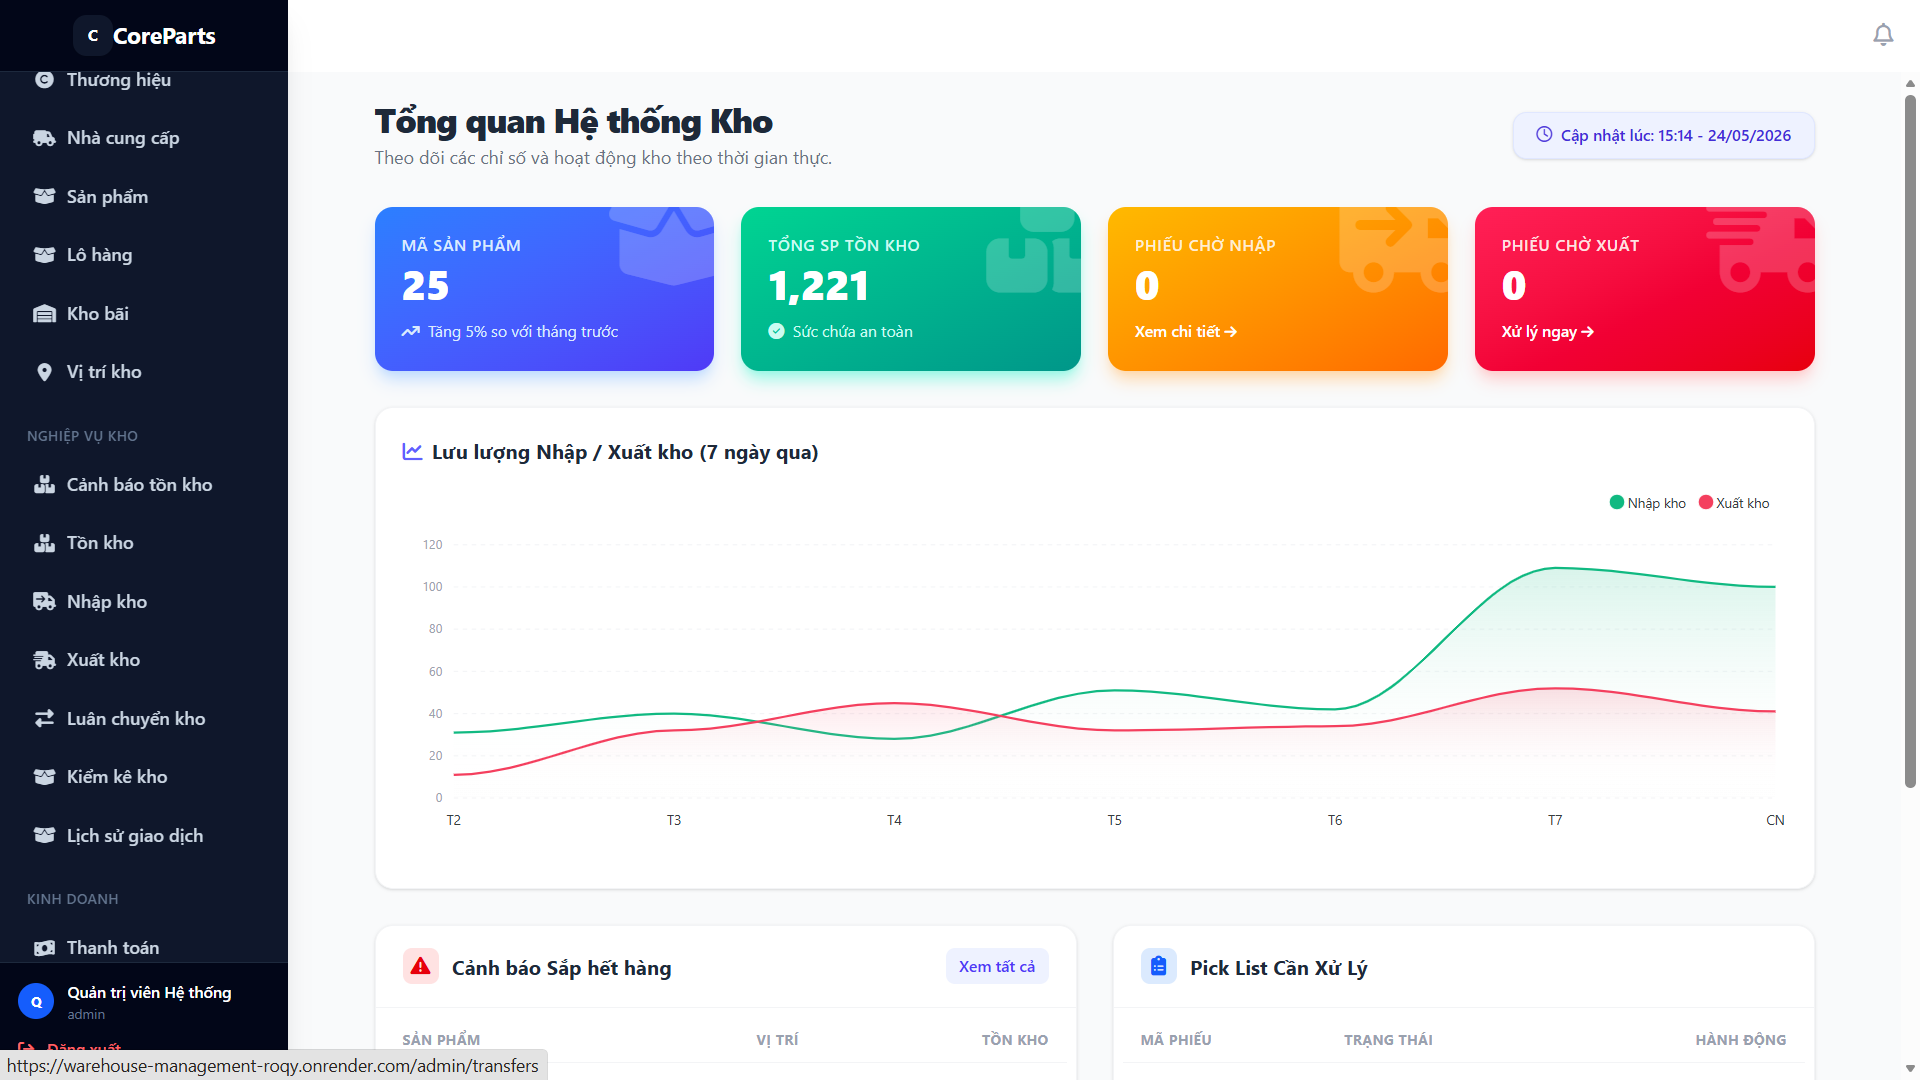
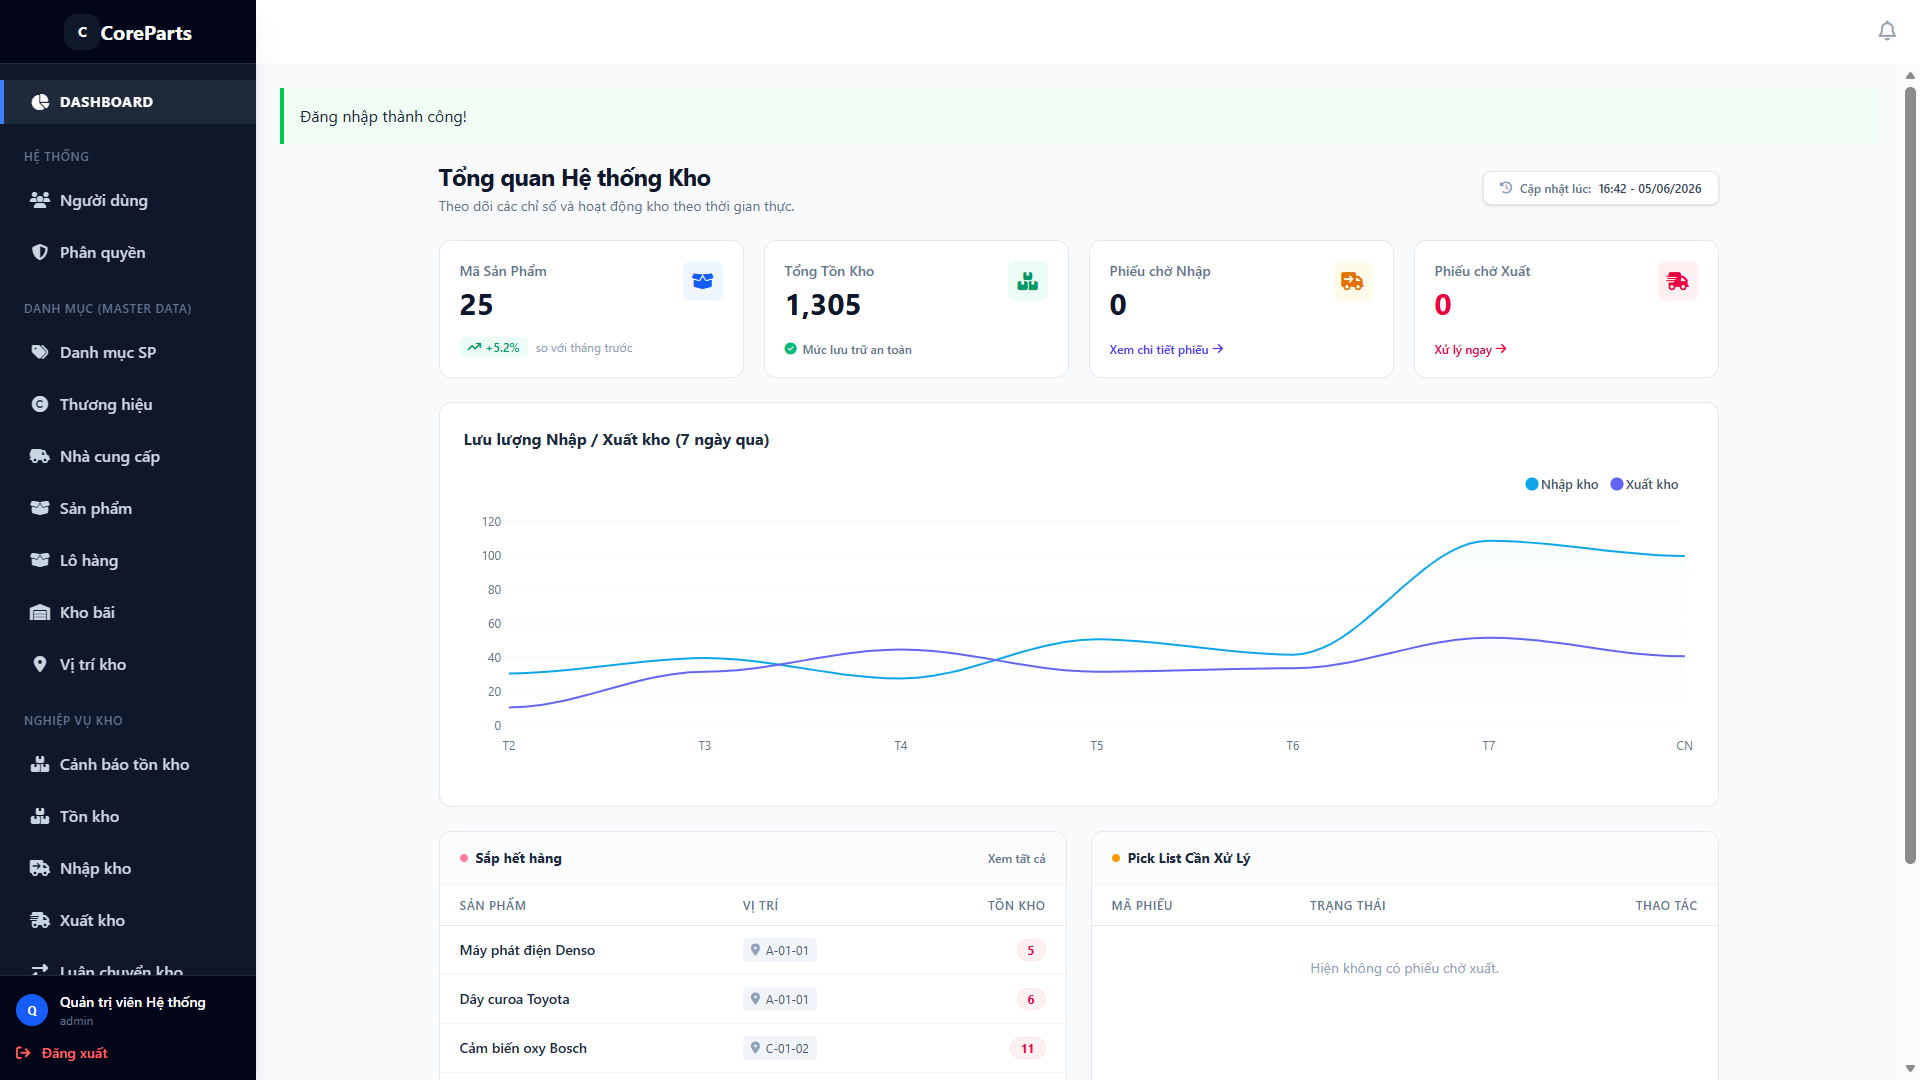
feat: Update project demo links, enhance project descriptions, and improve slider animations

diff --git a/js/projects.js b/js/projects.js
@@ -294,34 +294,44 @@ class ProjectManager {
     if (!cards.length) return;
 
     const isMobile = window.innerWidth < 768;
-    const xOffset = isMobile ? 100 : 70;
-    const scaleFactor = isMobile ? 0.9 : 0.8;
+
+    const xOffset = isMobile ? 85 : 65;
+    const scaleFactor = isMobile ? 0.85 : 0.8;
+    const rotateAngle = isMobile ? 25 : 35;
 
     cards.forEach((card, index) => {
       const diff = index - this.currentIndex;
       card.classList.remove("active");
 
+      card.style.transition = "all 0.6s cubic-bezier(0.25, 1, 0.5, 1)";
+      card.style.transformStyle = "preserve-3d";
+
       if (diff === 0) {
         card.classList.add("active");
-        card.style.transform = `translateX(-50%) scale(1)`;
+        card.style.transform = `translateX(-50%) perspective(1200px) translateZ(100px) rotateY(0deg) scale(1)`;
         card.style.zIndex = 30;
         card.style.opacity = 1;
-        card.style.filter = "blur(0px)";
+        card.style.filter = "blur(0px) brightness(1)";
+        card.style.boxShadow = "0 25px 50px -12px rgba(0,0,0,0.3)";
       } else if (diff === -1) {
-        card.style.transform = `translateX(calc(-50% - ${xOffset}%)) scale(${scaleFactor})`;
+        card.style.transform = `translateX(calc(-50% - ${xOffset}%)) perspective(1200px) translateZ(-50px) rotateY(${rotateAngle}deg) scale(${scaleFactor})`;
         card.style.zIndex = 20;
-        card.style.opacity = 0.5;
-        card.style.filter = "blur(3px)";
+        card.style.opacity = 0.6;
+        card.style.filter = "blur(2px) brightness(0.6)";
+        card.style.boxShadow = "-15px 10px 30px -10px rgba(0,0,0,0.2)";
       } else if (diff === 1) {
-        card.style.transform = `translateX(calc(-50% + ${xOffset}%)) scale(${scaleFactor})`;
+        card.style.transform = `translateX(calc(-50% + ${xOffset}%)) perspective(1200px) translateZ(-50px) rotateY(${-rotateAngle}deg) scale(${scaleFactor})`;
         card.style.zIndex = 20;
-        card.style.opacity = 0.5;
-        card.style.filter = "blur(3px)";
+        card.style.opacity = 0.6;
+        card.style.filter = "blur(2px) brightness(0.6)";
+        card.style.boxShadow = "15px 10px 30px -10px rgba(0,0,0,0.2)";
       } else {
         const direction = diff < 0 ? -1 : 1;
-        card.style.transform = `translateX(calc(-50% + ${direction * (xOffset * 1.5)}%)) scale(0.6)`;
+        const extraRotate = diff < 0 ? rotateAngle + 15 : -(rotateAngle + 15);
+        card.style.transform = `translateX(calc(-50% + ${direction * (xOffset * 1.5)}%)) perspective(1200px) translateZ(-250px) rotateY(${extraRotate}deg) scale(0.5)`;
         card.style.zIndex = 10;
         card.style.opacity = 0;
+        card.style.filter = "blur(6px) brightness(0.3)";
       }
     });
 
